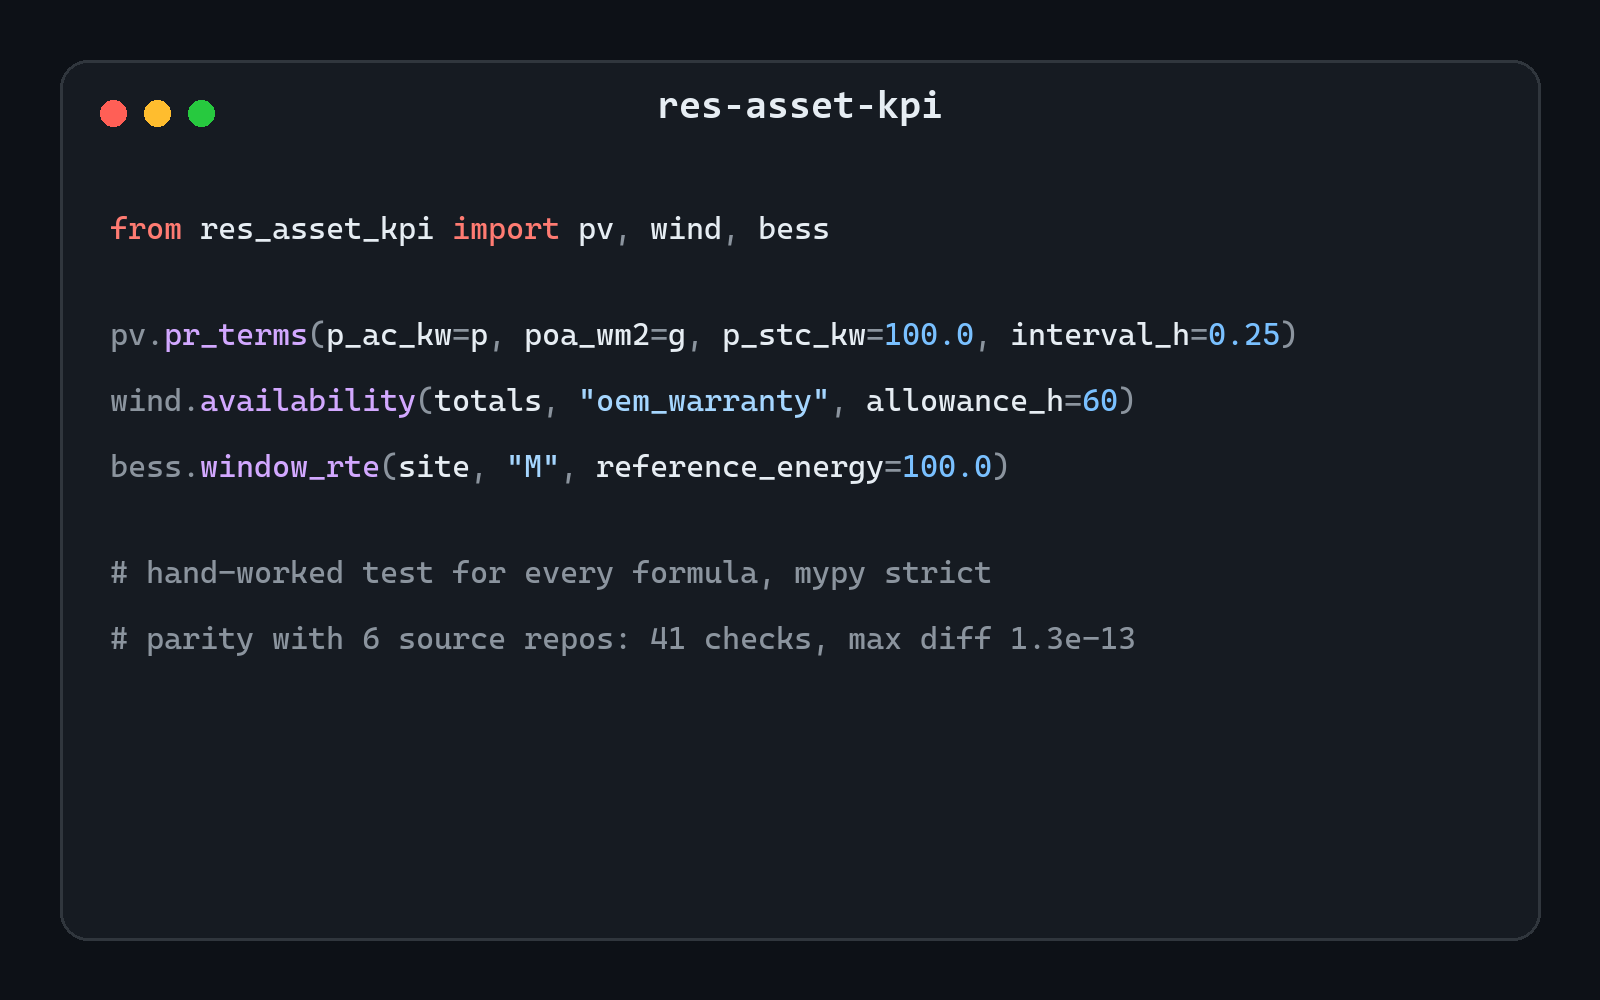
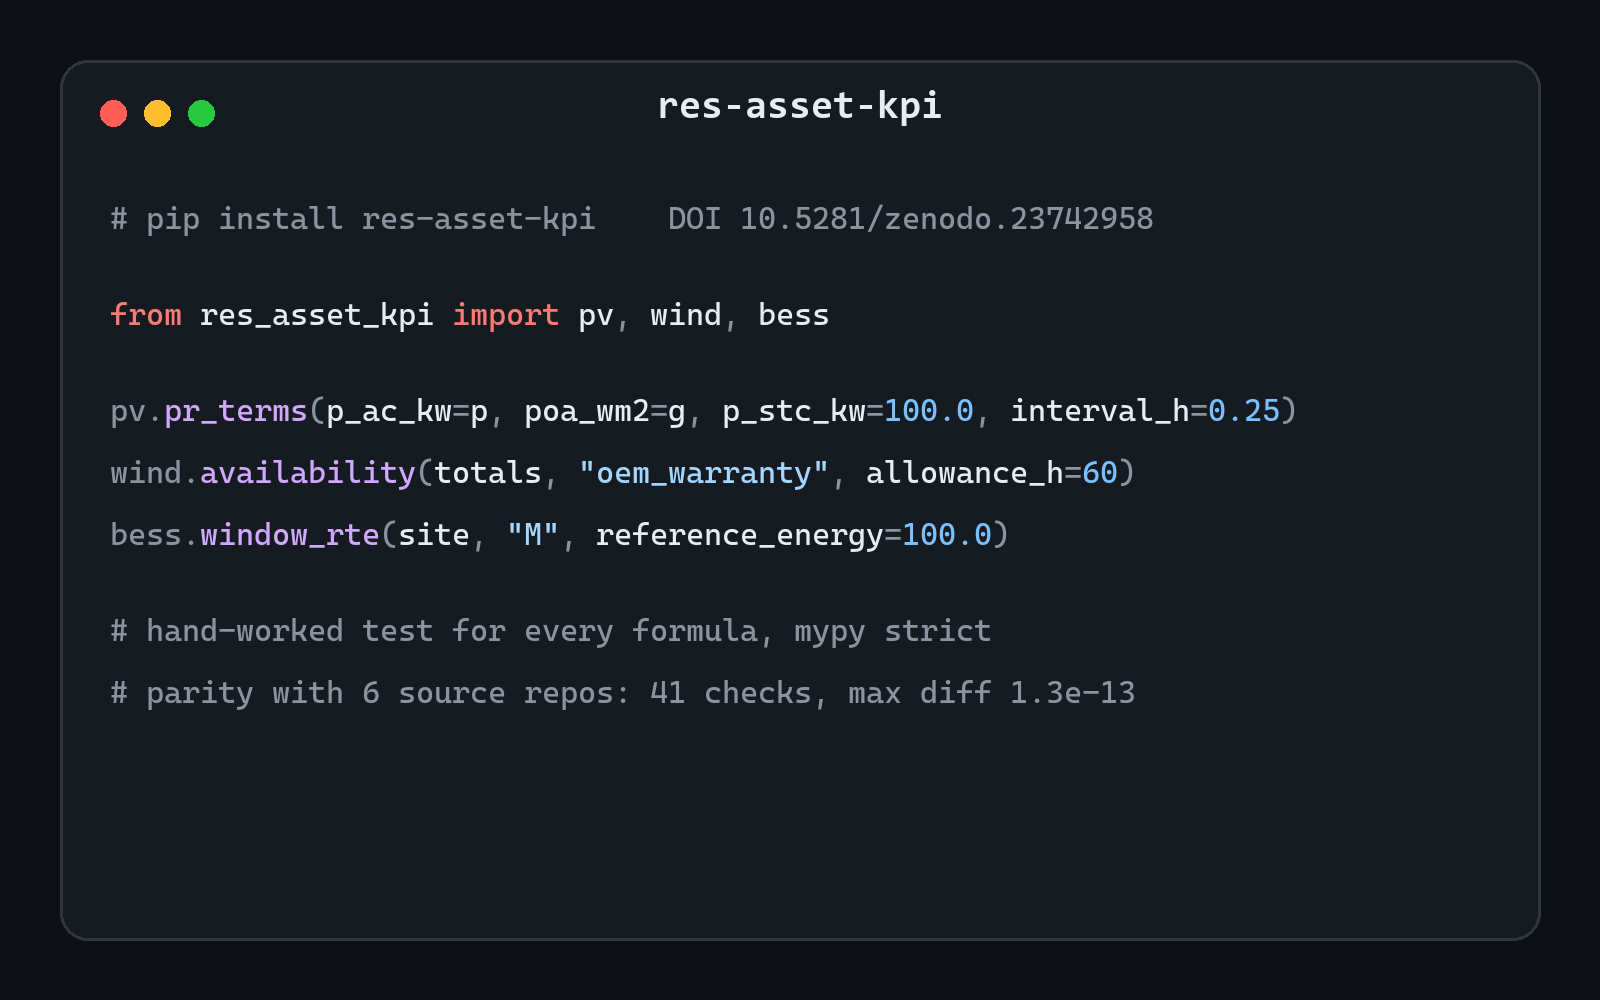
res-asset-kpi: on PyPI with a Zenodo DOI

diff --git a/index.html b/index.html
@@ -706,9 +706,9 @@ footer dd { margin: 0; }
       <div class="body">
         <div class="meta"><span class="group g-tools">Open-source tools</span></div>
         <h3><a href="https://github.com/kwwaleszczynski-del/res-asset-kpi">res-asset-kpi: KPI library for PV, wind and BESS</a></h3>
-        <p class="summary">An open-source Python library for the indicators asset managers report every month: PR and weather-corrected PR, contract availability for PV, wind (IEC 61400-26 categories) and batteries, the budget-to-actual energy bridge, power curves and AEP, MTBF/MTTR and Crow-AMSAA, SoC-corrected round-trip efficiency, cycles, capacity tests with uncertainty and contract damages set in YAML.</p>
+        <p class="summary">An open-source Python library on PyPI, with a Zenodo DOI, for the indicators asset managers report every month: PR and weather-corrected PR, contract availability for PV, wind (IEC 61400-26 categories) and batteries, the budget-to-actual energy bridge, power curves and AEP, MTBF/MTTR and Crow-AMSAA, SoC-corrected round-trip efficiency, cycles, capacity tests with uncertainty and contract damages set in YAML.</p>
         <p class="highlight">Extracted from six analysis projects and reproducing their results exactly (41 checks over about a million values, largest relative difference 1.3e-13); a hand-worked test for every formula, Hypothesis property tests, mypy strict, CI on Python 3.11-3.13.</p>
-        <ul class="tags"><li>Python library</li><li>IEC 61724-1 / 61400-26</li><li>asset management</li></ul>
+        <ul class="tags"><li>PyPI package</li><li>IEC 61724-1 / 61400-26</li><li>asset management</li></ul>
         <div class="links"><a class="btn" href="https://github.com/kwwaleszczynski-del/res-asset-kpi">Code</a><a class="btn primary" href="https://kwwaleszczynski-del.github.io/res-asset-kpi/">Docs &#8599;</a></div>
       </div>
     </article>
@@ -733,7 +733,7 @@ footer dd { margin: 0; }
       <dt>Stack</dt><dd>Python · pandas · SciPy / HiGHS MILP · pvlib · PyWake · PyTorch · NumPyro / JAX · Plotly · Grafana · InfluxDB 2 / Flux · GitHub Actions · pytest</dd>
       <dt>Open data</dt><dd>PSE (Polish TSO) open API · AEMO NEM · NREL PVDAQ · Kelmarsh wind farm SCADA (Cubico, CC BY 4.0) · PVGIS · Open-Meteo / ERA5 · Met Office sunshine records · Zenodo LFP cell ageing data · IMGW-PIB synoptic stations · CERRA (Copernicus) · IEEE RTS-79 · CARE to Compare benchmark (CC BY-SA 4.0) · FlyWire connectome v783 (CC BY 4.0)</dd>
     </dl>
-    <p>All projects are personal work on public datasets, credited in each repository. Updated 28 Oct 2026.</p>
+    <p>All projects are personal work on public datasets, credited in each repository. Updated 30 Oct 2026.</p>
   </footer>
 </div>
 <script>
